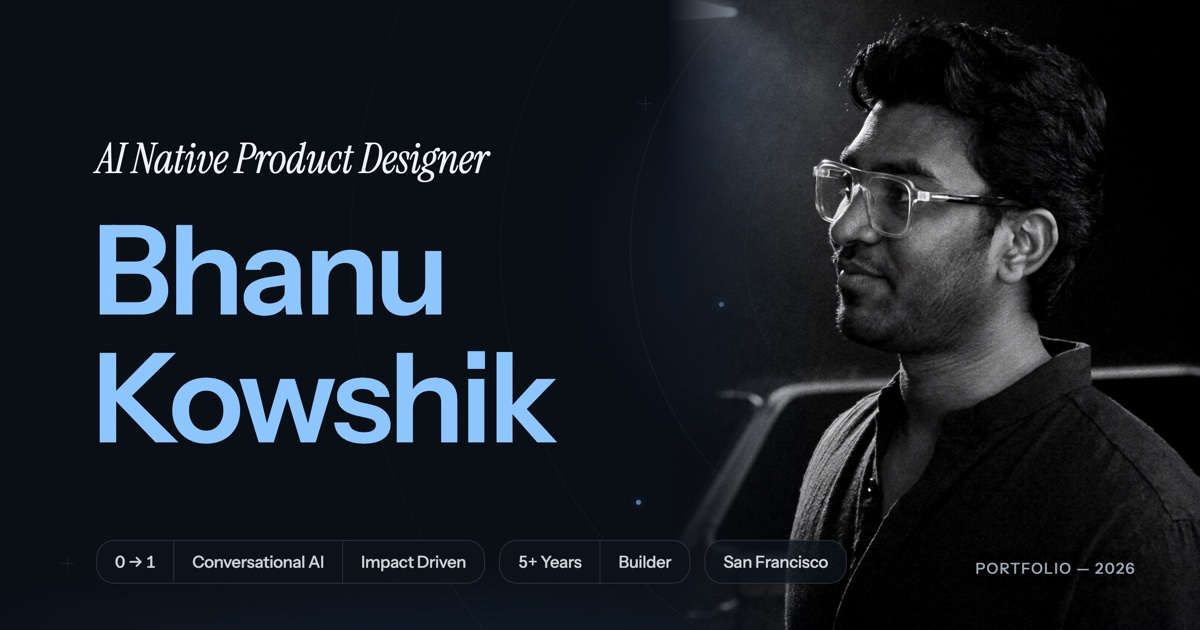
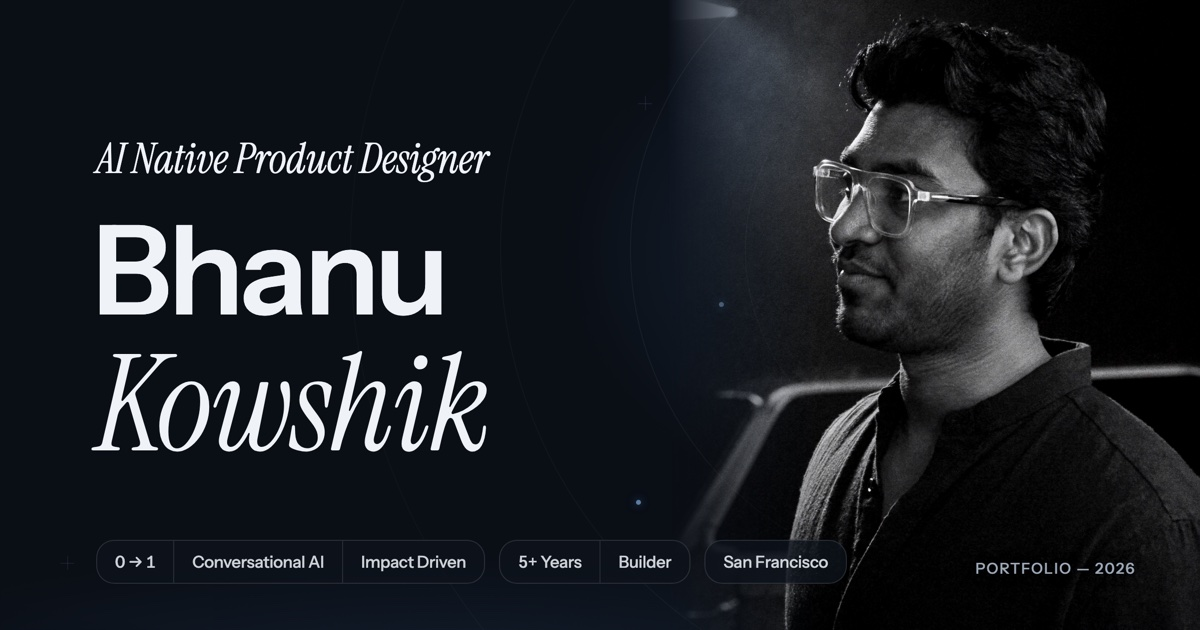
fix(share): og card v10 — the name goes white, Kowshik goes serif
Both name lines in white; Kowshik switches to italic Instrument Serif so
the type contrast, not colour, carries the hierarchy.

Changed region(s): [[0.0617, 0.5429, 0.4625, 0.7238], [0.0617, 0.3317, 0.37, 0.5127]]

diff --git a/index.html b/index.html
@@ -21,7 +21,7 @@
   <meta property="og:image" content="https://bhanukowshik.netlify.app/images/og-image.jpg" />
   <meta property="og:image:width" content="1200" />
   <meta property="og:image:height" content="630" />
-  <meta property="og:image:alt" content="Bhanu Kowshik in large highlighted type — AI Native Product Designer — beside a cinematic black-and-white portrait, with credentials: 0 to 1, Conversational AI, Impact Driven, 5+ Years, Builder, San Francisco" />
+  <meta property="og:image:alt" content="Bhanu Kowshik in large type — AI Native Product Designer — beside a cinematic black-and-white portrait, with credentials: 0 to 1, Conversational AI, Impact Driven, 5+ Years, Builder, San Francisco" />
   <meta name="twitter:card" content="summary_large_image" />
   <meta name="twitter:title" content="Bhanu Kowshik · AI Native Product Designer" />
   <meta name="twitter:description" content="Portfolio of Bhanu Kowshik — AI Native Product Designer." />

diff --git a/og-image.html b/og-image.html
@@ -81,12 +81,13 @@
     .n1 {
       position: absolute; left: 92px; top: 208px; z-index: 4;
       font-weight: 600; font-size: 124px; line-height: 1.0;
-      letter-spacing: -0.032em; color: #8CC5FF;
+      letter-spacing: -0.032em; color: #EFF3F8;
     }
     .n2 {
-      position: absolute; left: 92px; top: 336px; z-index: 4;
-      font-weight: 600; font-size: 124px; line-height: 1.0;
-      letter-spacing: -0.032em; color: #8CC5FF;
+      position: absolute; left: 96px; top: 338px; z-index: 4;
+      font-family: 'Instrument Serif', Georgia, serif; font-style: italic; font-weight: 400;
+      font-size: 134px; line-height: 1.0;
+      letter-spacing: -0.01em; color: #EFF3F8;
     }
 
     /* ── grouped fact pills — the hero facts-strip, split in three ── */
